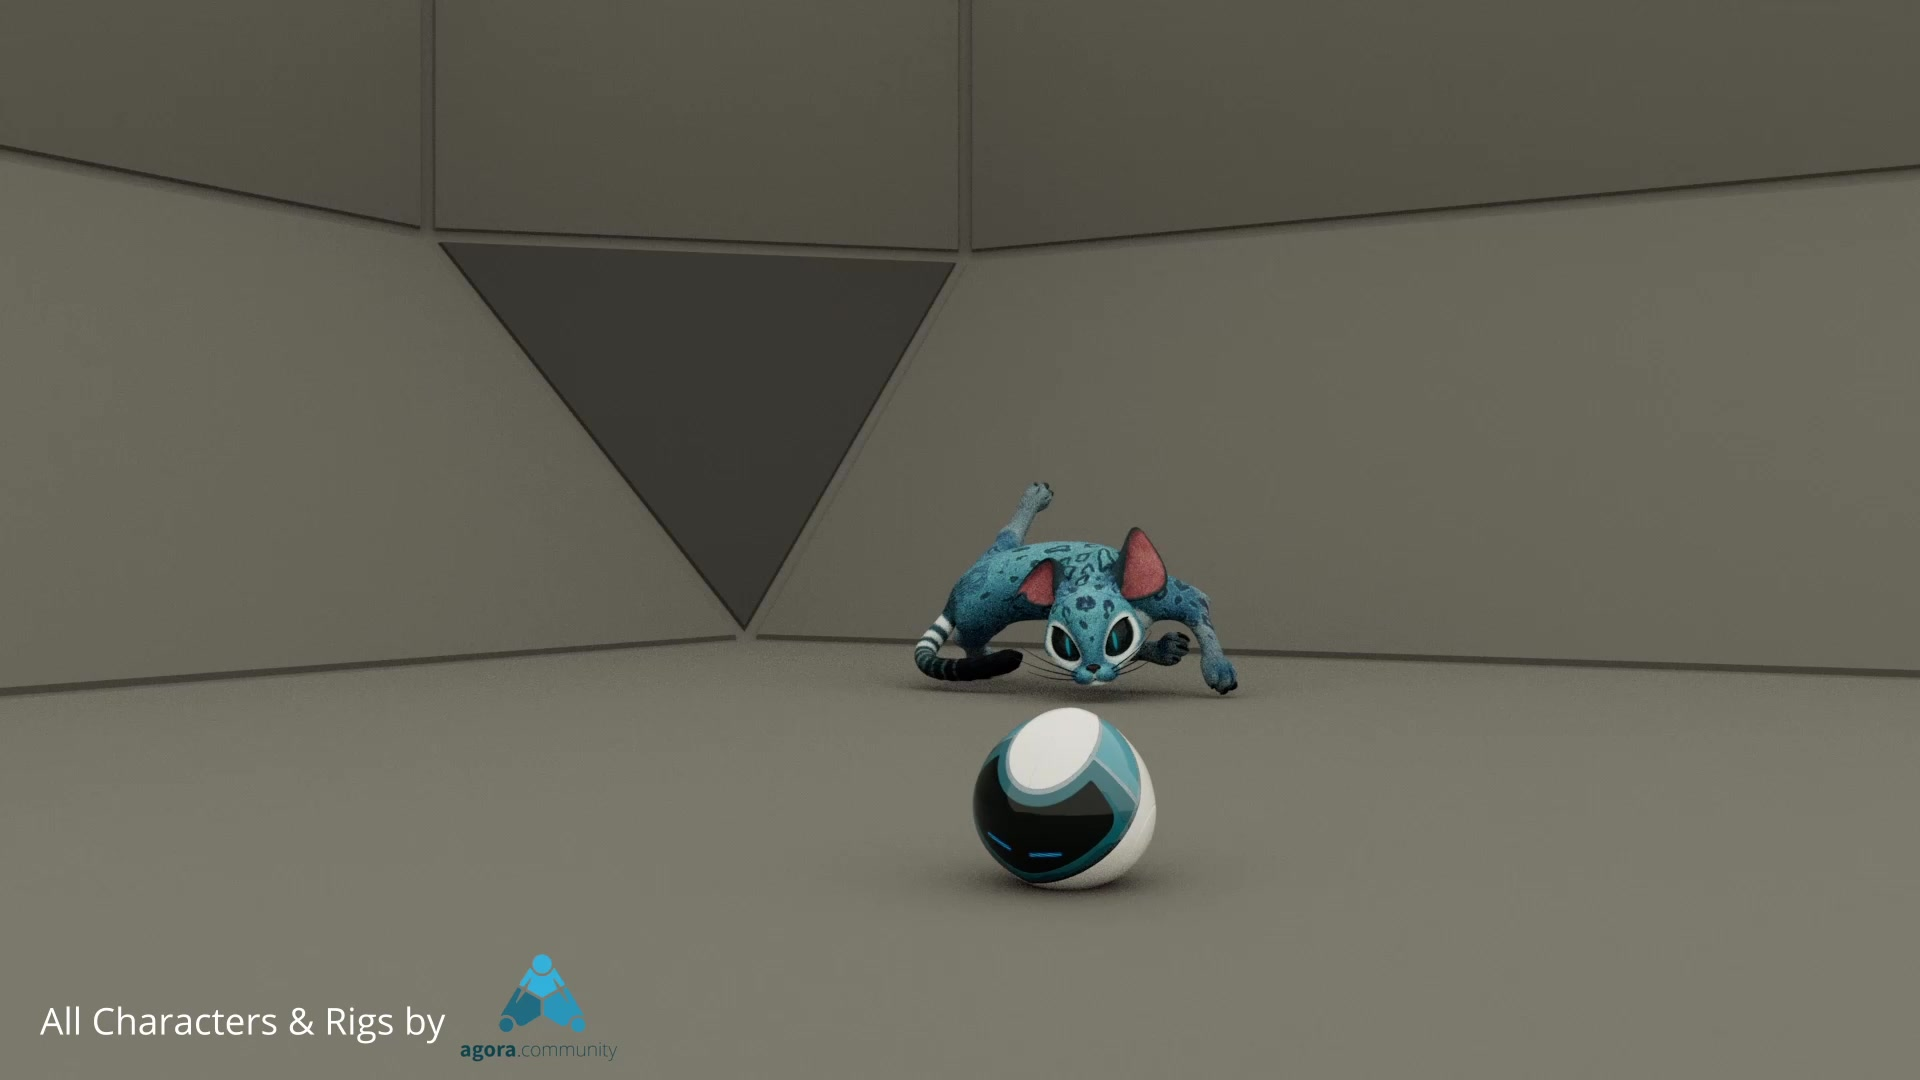
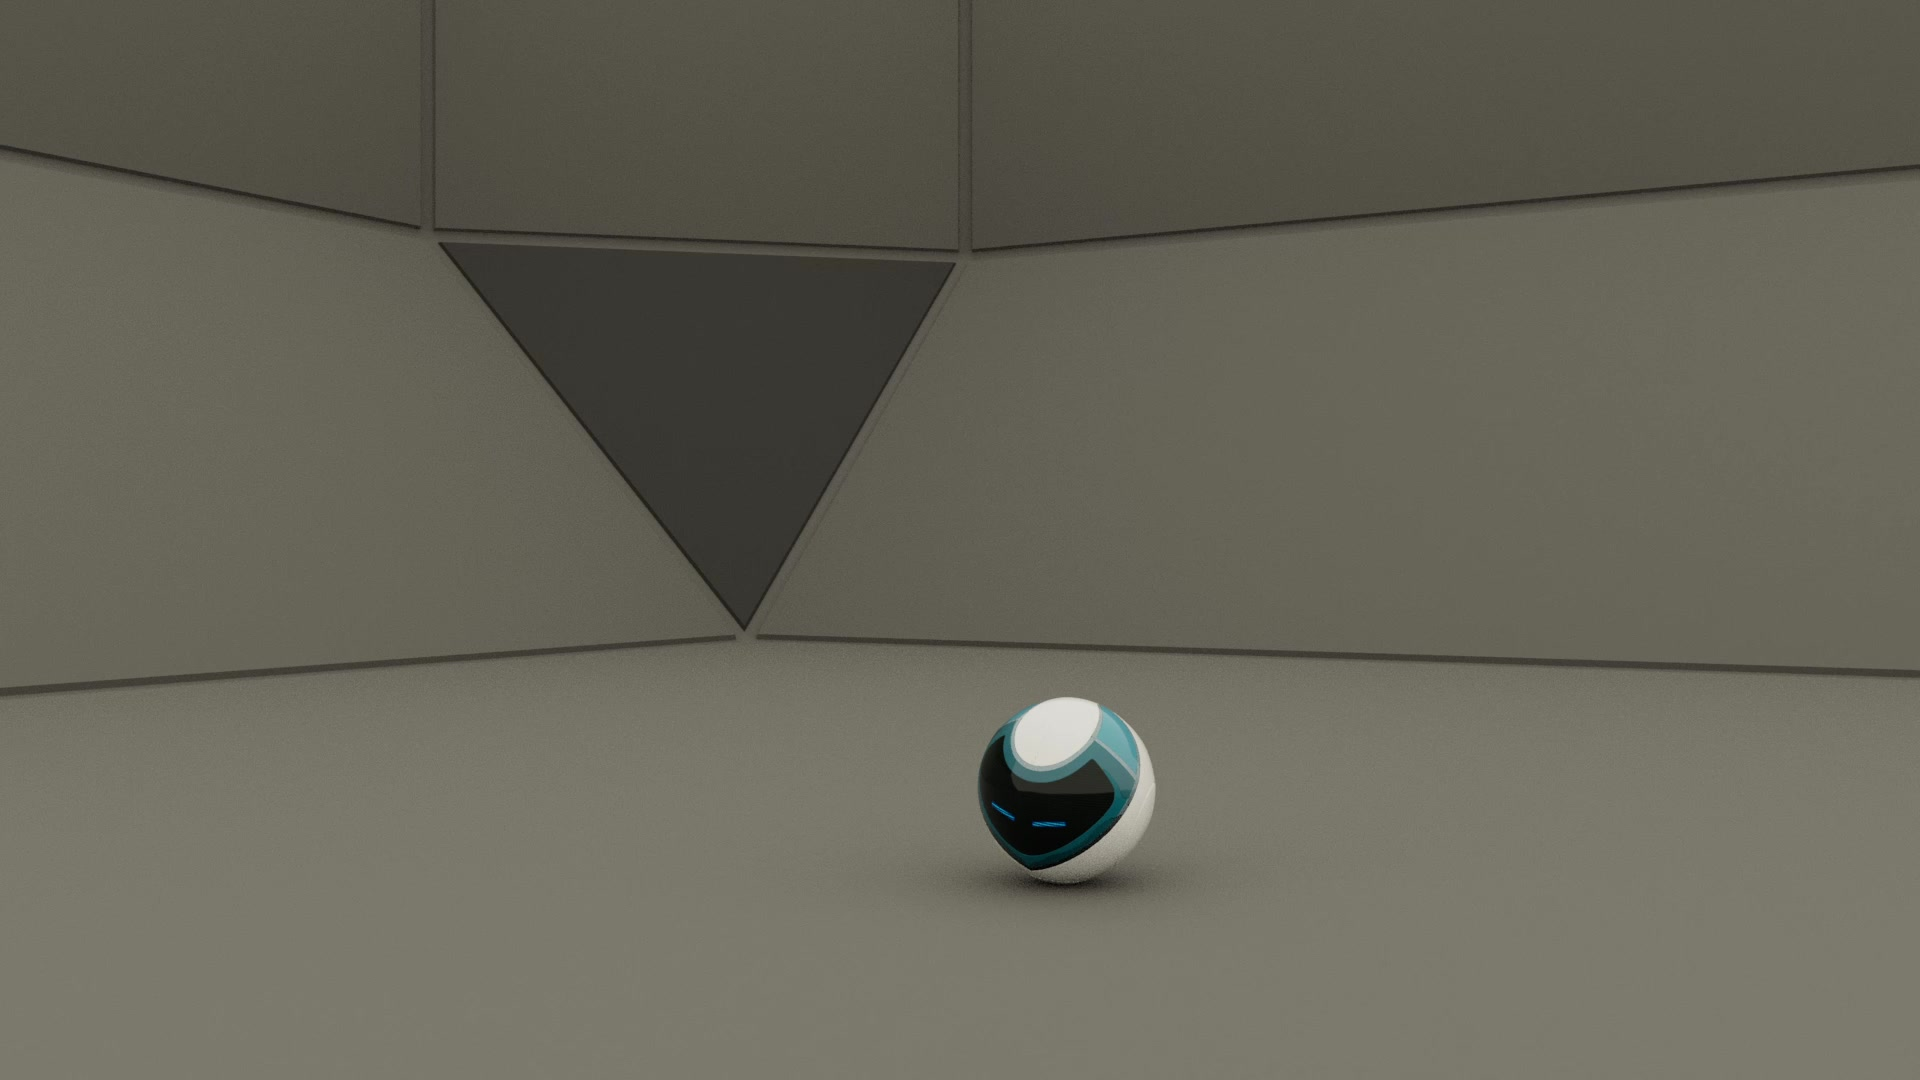
fifth upload

Changed region(s): [[0.4688, 0.4278, 0.6562, 0.825], [0.0312, 0.8861, 0.3125, 0.9778]]

diff --git a/index.html b/index.html
@@ -37,20 +37,6 @@ const CONFIG = {
 
   projects: [
     {
-      id:       "pop-tale",
-      isThesis: true,
-      title:    "POP Tale",
-      category: "animation",
-      cover:    "tesi/cover.jpg",
-      description: {
-        en: "Graduation short film — a lazy farmer, a suspicious product, and a corn field that gets wildly out of hand.",
-        it: "Cortometraggio di tesi — un contadino pigro, un prodotto sospetto e un campo di pannocchie che prende una piega inaspettata."
-      },
-      page: {
-        finalVideo: "tesi/pop-tale-final.mp4",
-      }
-    },
-    {
       id:       "animation-reel",
       isThesis: false,
       title:    "Animation Reel",
@@ -86,7 +72,20 @@ const CONFIG = {
         ]
       }
     },
-
+    {
+      id:       "pop-tale",
+      isThesis: true,
+      title:    "POP Tale",
+      category: "animation",
+      cover:    "tesi/cover.jpg",
+      description: {
+        en: "Graduation short film — a lazy farmer, a suspicious product, and a corn field that gets wildly out of hand.",
+        it: "Cortometraggio di tesi — un contadino pigro, un prodotto sospetto e un campo di pannocchie che prende una piega inaspettata."
+      },
+      page: {
+        finalVideo: "tesi/pop-tale-final.mp4",
+      }
+    },
     {
       // TODO: rename this id/title once final name is decided
       id:       "sketch-to-3d",
@@ -105,45 +104,6 @@ const CONFIG = {
           { stepKey: "texturing",   descKey: "texturingDesc",   image: "sketch-to-3d/03-texturing.png" },
           { stepKey: "rendering",   descKey: "renderingDesc",   image: "sketch-to-3d/04-rendering.png" },
           { stepKey: "compositing", descKey: "compositingDesc", image: "sketch-to-3d/05-compositing.png" }
-        ]
-      }
-    },
-    {
-      id:       "sprout-tower",
-      isThesis: false,
-      title:    "Sprout Tower",
-      category: "environment",
-      cover:    "sprout-tower/sprout-tower.png",
-      description: {
-        en: "Sprout Tower — environment scene modeled in 3DS Max and rendered with V-Ray.",
-        it: "Sprout Tower — scena environment modellata in 3DS Max e renderizzata con V-Ray."
-      },
-      page: {
-        still:   "sprout-tower/sprout-tower.png",
-        process: "sprout-tower/process.gif"
-      }
-    },
-
-    {
-      id:       "ai",
-      isThesis: false,
-      title:    "AI",
-      category: "ai",
-      cover:    "ai/z-image-01.png",
-      description: {
-        en: "Image-to-video workflows built in ComfyUI. I used a Z-Image workflow to generate the source images, then WAN 2 to convert each image into a video.",
-        it: "Workflow image-to-video realizzati in ComfyUI. Ho usato un workflow Z-Image per generare le immagini di partenza, e poi WAN 2 per trasformare ogni immagine in video."
-      },
-      page: {
-        workflows: [
-          {
-            image: "ai/z-image-01.png",
-            video: "ai/comfyui-01.mp4"
-          },
-          {
-            image: "ai/z-image-02.png",
-            video: "ai/comfyui-02.mp4"
-          }
         ]
       }
     },
@@ -176,7 +136,7 @@ const CONFIG = {
       workflowLabel:   "Workflow",
       catLabels:       { project: "Project", animation: "Animation", modeling: "Modeling", environment: "Environment", ai: "AI" },
       graduationBadge: "Graduation Film",
-      backBtn:         "← Back",
+      backBtn:         "Back",
       finalFilm:       "Final Film",
       reelTitle:       "Reel",
       reelClips:       "Animations",
@@ -222,7 +182,7 @@ const CONFIG = {
       workflowLabel:   "Workflow",
       catLabels:       { project: "Progetto", animation: "Animazione", modeling: "Modeling", environment: "Ambiente", ai: "AI" },
       graduationBadge: "Cortometraggio di Tesi",
-      backBtn:         "← Indietro",
+      backBtn:         "Indietro",
       finalFilm:       "Film Finale",
       reelTitle:       "Reel",
       reelClips:       "Animazioni",
@@ -465,13 +425,13 @@ section{padding:7rem 3rem;}
 /* PROJECT BANNER */
 .pp-banner{
   position:absolute;
-  top:0;right:0;
+  top:-2rem;right:0;
   width:62%;
-  height:clamp(300px,70vh,680px);
+  height:clamp(340px,75vh,720px);
   background-size:cover;
-  background-position:center top;
-  -webkit-mask-image:linear-gradient(135deg, transparent 0%, rgba(0,0,0,0.15) 28%, rgba(0,0,0,0.55) 52%, rgba(0,0,0,0.85) 72%, rgba(0,0,0,1) 100%);
-  mask-image:linear-gradient(135deg, transparent 0%, rgba(0,0,0,0.15) 28%, rgba(0,0,0,0.55) 52%, rgba(0,0,0,0.85) 72%, rgba(0,0,0,1) 100%);
+  background-position:center 30%;
+  -webkit-mask-image:linear-gradient(135deg, transparent 0%, rgba(0,0,0,0.08) 22%, rgba(0,0,0,0.4) 44%, rgba(0,0,0,0.78) 65%, rgba(0,0,0,0.95) 100%);
+  mask-image:linear-gradient(135deg, transparent 0%, rgba(0,0,0,0.08) 22%, rgba(0,0,0,0.4) 44%, rgba(0,0,0,0.78) 65%, rgba(0,0,0,0.95) 100%);
   z-index:0;
   pointer-events:none;
 }
@@ -620,7 +580,8 @@ section{padding:7rem 3rem;}
   color:var(--accent2);text-align:center;line-height:1.5;
   margin:0;
 }
-.pp-timeline-box img{width:100%;height:100%;object-fit:cover;display:block;}
+.pp-timeline-box img{width:100%;height:100%;object-fit:cover;display:block;object-position:center center;}
+.pp-timeline-step:first-child .pp-timeline-box img{object-fit:contain;padding:0.5rem;background:var(--bg2);}
 .pp-timeline-empty{
   font-family:var(--font-display);font-size:3rem;color:rgba(240,51,168,0.12);
   width:100%;height:100%;display:flex;align-items:center;justify-content:center;
@@ -693,7 +654,18 @@ section{padding:7rem 3rem;}
   backdrop-filter:blur(6px);
 }
 #lightbox.open{display:flex;}
-#lightbox img{max-width:88vw;max-height:88vh;object-fit:contain;}
+#lightboxOverlay{position:absolute;inset:0;cursor:zoom-out;z-index:0;}
+#lightboxImg{max-width:80vw;max-height:86vh;object-fit:contain;position:relative;z-index:1;}
+.lightbox-nav{
+  position:relative;z-index:2;
+  background:transparent;border:1px solid rgba(255,255,255,0.2);
+  color:var(--text);font-size:1.3rem;line-height:1;
+  width:44px;height:44px;border-radius:2px;flex-shrink:0;
+  margin:0 1.2rem;cursor:pointer;
+  display:flex;align-items:center;justify-content:center;
+  transition:border-color 0.2s,color 0.2s;
+}
+.lightbox-nav:hover{border-color:var(--accent);color:var(--accent2);}
 #lightboxClose{
   position:absolute;top:1.5rem;right:1.5rem;
   background:none;border:1px solid var(--border2);color:var(--muted);
@@ -822,8 +794,10 @@ footer p{font-family:var(--font-mono);font-size:0.65rem;letter-spacing:0.1em;col
 
 <!-- LIGHTBOX -->
 <div id="lightbox">
-  <button id="lightboxClose" onclick="closeLightbox()">✕ Close</button>
+  <div id="lightboxOverlay" onclick="closeLightbox()"></div>
+  <button class="lightbox-nav lightbox-prev" onclick="lightboxNav(-1)" aria-label="Previous">&#8592;</button>
   <img id="lightboxImg" src="" alt="">
+  <button class="lightbox-nav lightbox-next" onclick="lightboxNav(1)" aria-label="Next">&#8594;</button>
 </div>
 
 <!-- MAIN PORTFOLIO PAGE -->
@@ -1210,55 +1184,11 @@ function renderProjectPage(p){
           </div>`).join('')}
       </div>`;
 
-  } else if(p.id==='sprout-tower'){
-    const pg=p.page;
-    html+=`
-      <h1 class="pp-hero-title">SPROUT<br><span>TOWER</span></h1>
-      <p class="pp-desc">${p.description[LANG]}</p>
-
-      <p class="pp-section-label">${L.stillLabel}</p>
-      <div class="pp-sprout-layout">
-        <div class="pp-sprout-main" onclick="openLightbox('${pg.still}')">
-          <img src="${pg.still}" alt="Sprout Tower">
-        </div>
-        ${pg.process ? `<div class="pp-sprout-process">
-          <img src="${pg.process}" alt="Process">
-        </div>` : ''}
-      </div>`;
 
 
 
-  } else if(p.id==='ai'){
-    const pg=p.page;
-    html+=`
-      <h1 class="pp-hero-title">AI<br><span>WORKFLOWS</span></h1>
-      <p class="pp-desc">${p.description[LANG]}</p>
 
-      <p class="pp-section-label">${L.workflowLabel}</p>
-      <div class="pp-ai-workflows">
-        ${pg.workflows.map((w,idx)=>`
-          <div class="pp-ai-workflow">
-            <div class="pp-ai-step pp-ai-step--image">
-              <div class="pp-ai-step-label">${L.sourceLabel}</div>
-              <div class="pp-ai-step-media" onclick="openLightbox('${w.image}')">
-                <img src="${w.image}" alt="Z-Image source" loading="lazy">
-              </div>
-            </div>
-            <div class="pp-ai-arrow" aria-hidden="true">
-              <svg viewBox="0 0 60 30" xmlns="http://www.w3.org/2000/svg">
-                <line x1="2" y1="15" x2="50" y2="15" stroke="currentColor" stroke-width="1.5" stroke-dasharray="4 4"/>
-                <path d="M48 8 L58 15 L48 22" stroke="currentColor" stroke-width="1.5" fill="none" stroke-linecap="round" stroke-linejoin="round"/>
-              </svg>
-              <span class="pp-ai-arrow-text">WAN 2</span>
-            </div>
-            <div class="pp-ai-step pp-ai-step--video">
-              <div class="pp-ai-step-label">${L.generatedLabel}</div>
-              <div class="pp-ai-step-media">
-                <video src="${w.video}" loop muted playsinline preload="metadata" data-lazy-play controls></video>
-              </div>
-            </div>
-          </div>`).join('')}
-      </div>`;
+
   }
 
   document.getElementById('ppBody').innerHTML=html;
@@ -1308,6 +1238,48 @@ function setupLazyVideos(){
 }
 
 /* ── LIGHTBOX ── */
+let _lbImages = [];
+let _lbIndex  = 0;
+
+function openLightbox(src){
+  // Collect all lightbox-able images on current page in order
+  const nodes = Array.from(document.querySelectorAll('#ppBody [onclick*="openLightbox"]'));
+  _lbImages = nodes.map(el => {
+    const m = el.getAttribute('onclick') && el.getAttribute('onclick').match(/openLightbox\('([^']+)'\)/);
+    return m ? m[1] : null;
+  }).filter(Boolean);
+  _lbImages = [...new Set(_lbImages)];
+  if(!_lbImages.length) _lbImages = [src];
+  _lbIndex = _lbImages.indexOf(src);
+  if(_lbIndex === -1){ _lbImages = [src]; _lbIndex = 0; }
+  document.getElementById('lightboxImg').src = _lbImages[_lbIndex];
+  document.getElementById('lightbox').classList.add('open');
+  document.body.style.overflow='hidden';
+  _lbUpdateNav();
+}
+
+function _lbUpdateNav(){
+  const op = _lbImages.length > 1 ? '1' : '0.2';
+  document.querySelector('.lightbox-prev').style.opacity = op;
+  document.querySelector('.lightbox-next').style.opacity = op;
+}
+
+function lightboxNav(dir){
+  if(_lbImages.length <= 1) return;
+  _lbIndex = (_lbIndex + dir + _lbImages.length) % _lbImages.length;
+  document.getElementById('lightboxImg').src = _lbImages[_lbIndex];
+}
+
+function closeLightbox(){
+  document.getElementById('lightbox').classList.remove('open');
+  document.body.style.overflow='';
+}
+document.addEventListener('keydown',e=>{
+  if(!document.getElementById('lightbox').classList.contains('open')) return;
+  if(e.key==='Escape')     closeLightbox();
+  if(e.key==='ArrowLeft')  lightboxNav(-1);
+  if(e.key==='ArrowRight') lightboxNav(1);
+});/* ── LIGHTBOX ── */
 function openLightbox(src){
   document.getElementById('lightboxImg').src=src;
   document.getElementById('lightbox').classList.add('open');